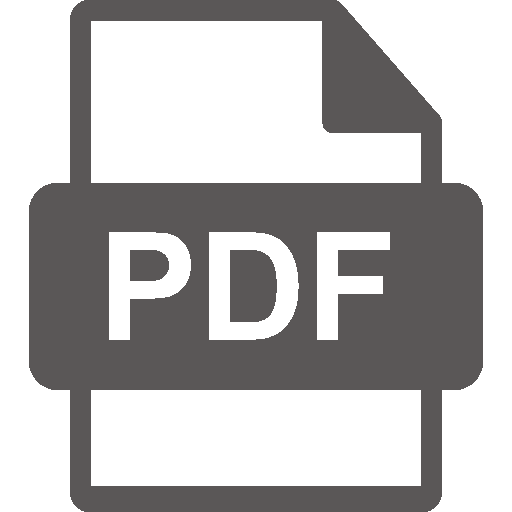
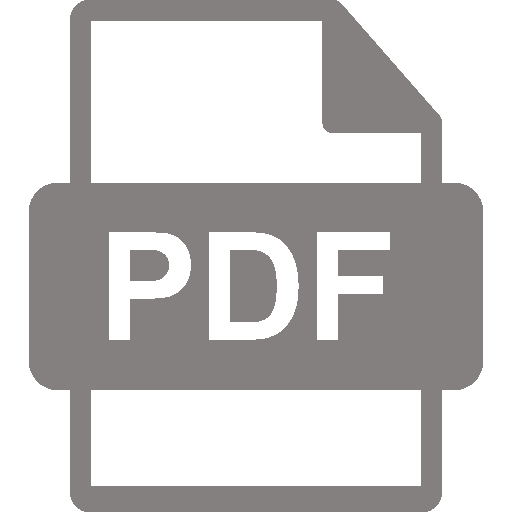
2021 08 09 Elkészült a pdf-xls-txt id lekérés

diff --git a/src/sample/Controller.java b/src/sample/Controller.java
@@ -34,8 +34,15 @@ public class Controller implements Initializable {
     FileProcessor f = new FileProcessor();
     PdfProcessor p = new PdfProcessor();
     Delta delta = new Delta();
+
     private double xOffset=0;
     private double yOffset=0;
+
+    private int pdfButtonState;
+    private int xlsButtonState;
+    private int txtButtonState;
+    private int helpButtonState;
+    // Button States:  1. fedalut 2. green 3. grey
 
     @FXML
     ImageView iv_pdf;
@@ -45,6 +52,9 @@ public class Controller implements Initializable {
 
     @FXML
     ImageView iv_txt;
+
+    @FXML
+    ImageView iv_help;
 
     @FXML
     private Circle exitCircle;
@@ -76,22 +86,29 @@ public class Controller implements Initializable {
 
     @Override
     public void initialize(URL url, ResourceBundle resourceBundle) {
-        //<Image url="@.." />
-        Image image = new Image(this.getClass().getResource("/sample/Assets/pdf.png").toExternalForm());
-        iv_pdf.setImage(image);
-        Image image2 = new Image(this.getClass().getResource("/sample/Assets/xls.png").toExternalForm());
-        iv_xls.setImage(image2);
-        Image image3 = new Image(this.getClass().getResource("/sample/Assets/txt.png").toExternalForm());
-        iv_txt.setImage(image3);
-        //iv_pdf.setImage(new Image());
-
+        setDefaultState();
     }
 
     public void setStage(Stage stage) {
         this.stage = stage;
     }
 
+    public void setDefaultState() {
+        iv_pdf.setImage(new Image(getClass().getResource("/sample/Assets/pdf.png").toExternalForm()));
+        iv_pdf.setDisable(false);
+        iv_xls.setImage(new Image(getClass().getResource("/sample/Assets/xls.png").toExternalForm()));
+        iv_xls.setDisable(false);
+        iv_txt.setImage(new Image(getClass().getResource("/sample/Assets/txt.png").toExternalForm()));
+        iv_txt.setDisable(false);
+        iv_help.setImage(new Image(getClass().getResource("/sample/Assets/help.png").toExternalForm()));
+        iv_help.setDisable(false);
+        pdfButtonState = 1;
+        xlsButtonState = 1;
+        txtButtonState = 1;
+        helpButtonState = 1;
 
+        // Button States:  1. fedalut 2. green 3. grey
+    }
 
     public void setParentInController(Parent root) {
         this.root = root;
@@ -102,61 +119,104 @@ public class Controller implements Initializable {
     }
 
     public void pdfButtonClicked(MouseEvent event) {
-        if(event.getButton().equals(MouseButton.PRIMARY)) {
-            System.out.println("Working Directory = " + System.getProperty("user.dir"));
-            File file = new File("/Assets/pdfGreen.png");
-            System.out.println(file);
-            FileChooser fc = new FileChooser();
-            fc.getExtensionFilters().addAll(new FileChooser.ExtensionFilter("pdf files","*.pdf"));
-            fc.setTitle("pdf fajlok kivalasztasa");
-            List<File> list = f.updatePdfFileListsByButton(fc.showOpenMultipleDialog(stage));
-            if (f.isPdfFileListEmpty()==true) {
+
+        if (pdfButtonState!=3) {
+
+            if(event.getButton().equals(MouseButton.PRIMARY)) {
+                System.out.println("Working Directory = " + System.getProperty("user.dir"));
+                File file = new File("/Assets/pdfGreen.png");
+                System.out.println(file);
+                FileChooser fc = new FileChooser();
+                fc.getExtensionFilters().addAll(new FileChooser.ExtensionFilter("pdf files","*.pdf"));
+                fc.setTitle("pdf fajlok kivalasztasa");
+                List<File> list = f.updatePdfFileListsByButton(fc.showOpenMultipleDialog(stage));
+                if (f.isPdfFileListEmpty()==true) {
+                    iv_pdf.setImage(new Image(getClass().getResource("/sample/Assets/pdf.png").toExternalForm()));
+                    turnOnXlsButton();
+
+                }
+                else if (f.isPdfFileListEmpty() != true) {
+                    iv_pdf.setImage(new Image(getClass().getResource("/sample/Assets/pdfGreen.png").toExternalForm()));
+                    turnOfXlsButton();
+                }
+                f.getPdfId();
+
+                if (list !=null) {
+                    p.setFile(list.get(0));
+                    p.extractText();
+                    p.setPdfName();
+                }
+
+            }
+
+            if(event.getButton().equals(MouseButton.SECONDARY)) {
+                f.clearPdfList();
                 iv_pdf.setImage(new Image(getClass().getResource("/sample/Assets/pdf.png").toExternalForm()));
-
+                turnOnXlsButton();
             }
-            else if (f.isPdfFileListEmpty() != true) {
-                iv_pdf.setImage(new Image(getClass().getResource("/sample/Assets/pdfGreen.png").toExternalForm()));
-            }
-            f.getPdfId();
-
-            if (list !=null) {
-                p.setFile(list.get(0));
-                p.extractText();
-                p.setPdfName();
-            }
-
-        }
-
-        if(event.getButton().equals(MouseButton.SECONDARY)) {
-            f.clearPdfList();
-            iv_pdf.setImage(new Image(getClass().getResource("/sample/Assets/pdf.png").toExternalForm()));
         }
     }
 
+
+
     public void xlsButtonClicked(MouseEvent event) {
+        if (xlsButtonState!=3) {
+            if(event.getButton().equals(MouseButton.PRIMARY)) {
+                FileChooser fc = new FileChooser();
+                fc.getExtensionFilters().addAll(new FileChooser.ExtensionFilter("xlsx files","*.xlsx"));
+                fc.setTitle("xlsx fajlok kivalasztasa");
+                f.updateXlsFileListsByButton(fc.showOpenMultipleDialog(stage));
 
-        if(event.getButton().equals(MouseButton.PRIMARY)) {
-            FileChooser fc = new FileChooser();
-            fc.getExtensionFilters().addAll(new FileChooser.ExtensionFilter("xlsx files","*.xlsx"));
-            fc.setTitle("xlsx fajlok kivalasztasa");
-            f.updateXlsFileListsByButton(fc.showOpenMultipleDialog(stage));
+                if (f.isXlsFileListEmpty()==true) {
+                    System.out.println("true");
+                    iv_xls.setImage(new Image(getClass().getResource("/sample/Assets/xls.png").toExternalForm()));
+                    xlsButtonState=1;
+                }
 
-            if (f.isXlsFileListEmpty()==true) {
-                System.out.println("true");
+                else if (f.isXlsFileListEmpty() != true) {
+                    System.out.println("false");
+                    iv_xls.setImage(new Image(getClass().getResource("/sample/Assets/xlsGreen.png").toExternalForm()));
+                    xlsButtonState=2;
+                    turnOfPdfButton();
+                }
+            }
+
+            if (event.getButton().equals(MouseButton.SECONDARY)) {
+                f.clearXlsList();
                 iv_xls.setImage(new Image(getClass().getResource("/sample/Assets/xls.png").toExternalForm()));
-            }
+                xlsButtonState=1;
+                turnOnPdfButton();
 
-            else if (f.isXlsFileListEmpty() != true) {
-                System.out.println("false");
-                iv_xls.setImage(new Image(getClass().getResource("/sample/Assets/xlsGreen.png").toExternalForm()));
             }
+            f.getXlsId();
         }
 
-        if (event.getButton().equals(MouseButton.SECONDARY)) {
-            f.clearXlsList();
-            iv_xls.setImage(new Image(getClass().getResource("/sample/Assets/xls.png").toExternalForm()));
-        }
-        f.getXlsId();
+    }
+
+    private void turnOfPdfButton() {
+        pdfButtonState=3;
+        iv_pdf.setImage(new Image(getClass().getResource("/sample/Assets/pdfGrey.png").toExternalForm()));
+        iv_pdf.setDisable(true);
+    }
+
+    private void turnOnPdfButton() {
+        pdfButtonState=1;
+        iv_pdf.setImage(new Image(getClass().getResource("/sample/Assets/pdf.png").toExternalForm()));
+        iv_pdf.setDisable(false);
+    }
+
+
+
+    private void turnOnXlsButton() {
+        xlsButtonState=1;
+        iv_xls.setImage(new Image(getClass().getResource("/sample/Assets/xls.png").toExternalForm()));
+        iv_xls.setDisable(false);
+    }
+
+    private void turnOfXlsButton() {
+        xlsButtonState=3;
+        iv_xls.setImage(new Image(getClass().getResource("/sample/Assets/xlsGrey.png").toExternalForm()));
+        iv_xls.setDisable(true);
     }
 
     public void txtButtonClicked(MouseEvent event) {
@@ -169,17 +229,22 @@ public class Controller implements Initializable {
 
             if (f.isTxtFileListEmpty()==true) {
                 iv_txt.setImage(new Image(getClass().getResource("/sample/Assets/txt.png").toExternalForm()));
+                txtButtonState=1;
             }
 
             else if (f.isTxtFileListEmpty() != true) {
                 iv_txt.setImage(new Image(getClass().getResource("/sample/Assets/txtGreen.png").toExternalForm()));
+                txtButtonState=2;
             }
         }
+
         if (event.getButton().equals(MouseButton.SECONDARY)) {
             f.clearXlsList();
             iv_txt.setImage(new Image(getClass().getResource("/sample/Assets/txt.png").toExternalForm()));
         }
+
         f.getTxtId();
+
 
 
 
@@ -189,6 +254,21 @@ public class Controller implements Initializable {
     public void onDragDraggedHereImage(DragEvent event) {
         f.setDragFileList(event.getDragboard().getFiles());
         f.updateFileLists();
+
+    }
+
+    public void onDragUpdateButtonStates(){
+        if (f.isPdfFileListEmpty()==true) {
+            System.out.println("true");
+            iv_pdf.setImage(new Image(getClass().getResource("/sample/Assets/xls.png").toExternalForm()));
+        }
+
+        else if (f.isPdfFileListEmpty() != true) {
+            System.out.println("false");
+            iv_pdf.setImage(new Image(getClass().getResource("/sample/Assets/pdfGreen.png").toExternalForm()));
+            iv_xls.setImage(new Image(getClass().getResource("/sample/Assets/xlsGrey.png").toExternalForm()));
+            iv_xls.setDisable(true);
+        }
     }
 
     public void onDragOverDragHereImage(DragEvent event) {

diff --git a/src/sample/FileProcessor.java b/src/sample/FileProcessor.java
@@ -17,6 +17,7 @@ import java.util.logging.Level;
 import java.util.logging.Logger;
 
 
+import javafx.scene.image.Image;
 import org.apache.commons.lang3.StringUtils;
 import org.apache.pdfbox.pdmodel.PDDocument;
 import org.apache.pdfbox.text.PDFTextStripper;
@@ -417,6 +418,8 @@ public class FileProcessor {
     private void sortFileLists() {
 
     }
+
+
 
 
 
